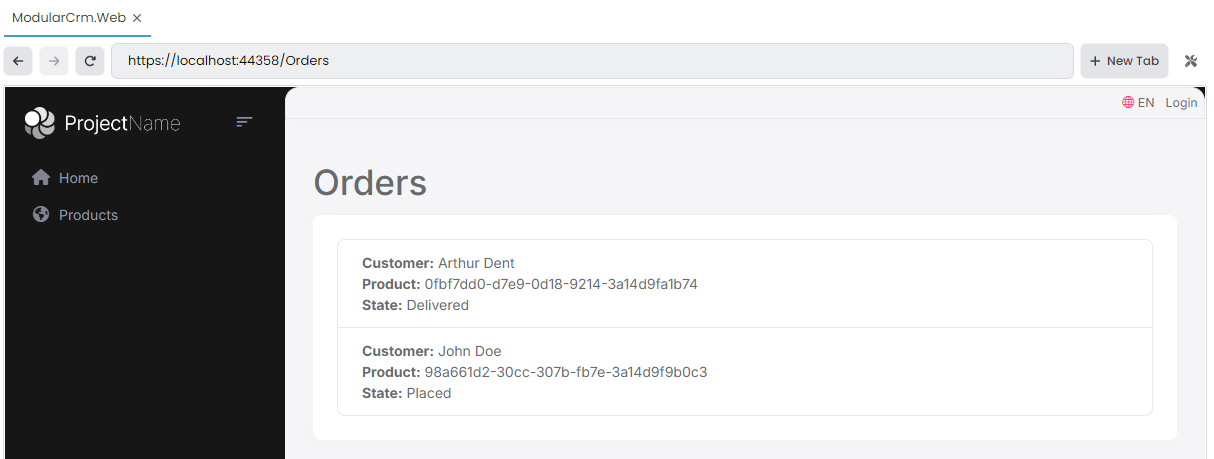
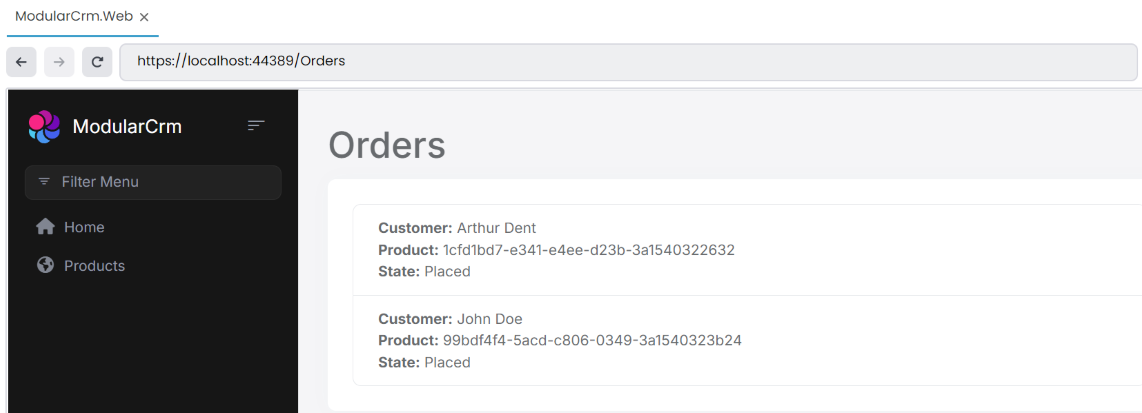
Refactor image file name in tutorial documentation, update package references, and implement OrderAppService

Changed region(s): [[0.0, 0.0291, 0.6743, 1.0], [0.8888, 0.0872, 1.0, 0.1453], [0.9194, 0.1743, 1.0, 0.2324]]

diff --git a/docs/en/tutorials/modular-crm/part-05.md b/docs/en/tutorials/modular-crm/part-05.md
@@ -297,6 +297,7 @@ Create a `OrderDto` class under the `ModularCrm.Ordering.Contracts` project:
 
 ````csharp
 using System;
+using ModularCrm.Ordering.Contracts.Enums;
 
 namespace ModularCrm.Ordering.Contracts.Services;
 
@@ -305,6 +306,7 @@ public class OrderDto
     public Guid Id { get; set; }
     public string CustomerName { get; set; }
     public Guid ProductId { get; set; }
+    public OrderState State { get; set; }
 }
 ````
 
@@ -407,9 +409,43 @@ public class OrderAppService : ApplicationService, IOrderAppService
 }
 ````
 
-## Creating the User Interface
+Open the `ModularCrmWebModule` class in the main application's solution (the `ModularCrm` solution), find the `ConfigureAutoApiControllers` method and add the following lines inside that method:
 
-Since this is a non-layered module, we can use entities and repositories directly on the user interface. If you think that is not a good practice, then use the layered module template as we've already done for the *Products* module. But for the Ordering module, we will keep it very simple for this tutorial to show it is also possible.
+````csharp
+private void ConfigureAutoApiControllers()
+{
+    Configure<AbpAspNetCoreMvcOptions>(options =>
+    {
+        options.ConventionalControllers.Create(typeof(ModularCrmApplicationModule).Assembly);
+        options.ConventionalControllers.Create(typeof(ProductsApplicationModule).Assembly);
+
+        //ADD THE FOLLOWING LINE:
+        options.ConventionalControllers.Create(typeof(OrderingWebModule).Assembly);
+    });
+}
+````
+
+### Creating Example Orders
+
+This section will create a few example orders using the [Swagger UI](../../framework/api-development/swagger.md). Thus, we will have some sample orders to show on the UI.
+
+Now, right-click the `ModularCrm` under the `main` folder in the Solution Explorer panel and select the *Dotnet CLI* -> *Graph Build* command. This will ensure that the order module and the main application are built and ready to run.
+
+After the build process completes, open the Solution Runner panel and click the *Play* button near the solution root. Once the `ModularCrm.Web` application runs, we can right-click it and select the *Browse* command to open the user interface.
+
+Once you see the user interface of the web application, type `/swagger` at the end of the URL to open the Swagger UI. If you scroll down, you should see the `Orders` API:
+
+![abp-studio-ordering-swagger-ui-in-browser](images/abp-studio-ordering-swagger-ui-in-browser.png)
+
+Expand the `/api/app/order` API and click the *Try it out* button. Then, create a few orders by filling in the request body and clicking the *Execute* button:
+
+![abp-studio-swagger-ui-create-order-execute](images/abp-studio-swagger-ui-create-order-execute.png)
+
+If you check the database, you should see the entities created in the *Orders* table:
+
+![sql-server-orders-database-table-filled](images/sql-server-orders-database-table-filled.png)
+
+## Creating the User Interface
 
 ### Creating a `_ViewImports.cshtml` File
 
@@ -432,28 +468,26 @@ Create an `Orders` folder under the `Pages` folder and add an `Index.cshtml` Raz
 
 ````csharp
 using Microsoft.AspNetCore.Mvc.RazorPages;
-using ModularCrm.Ordering.Entities;
-using System;
 using System.Collections.Generic;
 using System.Threading.Tasks;
-using Volo.Abp.Domain.Repositories;
+using ModularCrm.Ordering.Contracts.Services;
 
 namespace ModularCrm.Ordering.Pages.Orders
 {
     public class IndexModel : PageModel
     {
-        public List<Order> Orders { get; set; }
+        public List<OrderDto> Orders { get; set; }
 
-        private readonly IRepository<Order, Guid> _orderRepository;
+        private readonly IOrderAppService _orderAppService;
 
-        public IndexModel(IRepository<Order, Guid> orderRepository)
+        public IndexModel(IOrderAppService orderAppService)
         {
-            _orderRepository = orderRepository;
+            _orderAppService = orderAppService;
         }
 
         public async Task OnGetAsync()
         {
-            Orders = await _orderRepository.GetListAsync();
+            Orders = await _orderAppService.GetListAsync();
         }
     }
 }
@@ -484,14 +518,6 @@ Here, we are injecting a repository to query `Order` entities from the database 
 ````
 
 This page shows a list of orders on the UI. We haven't created a UI to create new orders, and we will not do it to keep this tutorial simple. If you want to learn how to create advanced UIs with ABP, please follow the [Book Store tutorial](../book-store/index.md).
-
-### Creating Some Sample Data
-
-You can open the database and manually create a few order records to show on the UI:
-
-![sql-server-orders-table-content](images/sql-server-orders-table-content.png)
-
-You can get `ProductId` values from the `Products` table and [generate](https://www.guidgenerator.com/) some random GUIDs for other GUID fields.
 
 ### Building the Application
 
@@ -550,11 +576,13 @@ namespace ModularCrm.Ordering
 
 `OrderingMenuContributor` implements the `IMenuContributor` interface, which forces us to implement the `ConfigureMenuAsync` method. In that method, we can manipulate the menu items (add new menu items, remove existing menu items or change the properties of existing menu items). The `ConfigureMenuAsync` method is executed whenever the menu is rendered on the UI, so you can dynamically decide how to manipulate the menu items.
 
-After creating such a class, we should configure the `AbpNavigationOptions` to add that contributor. Open the `OrderingWebModule` class in the `ModularCrm.Ordering` project and add the following configuration code into the `ConfigureServices` method (if there is no `ConfigureServices` method, first create it as shown below):
+After creating such a class, we should configure the `AbpNavigationOptions` to add that contributor. Open the `OrderingWebModule` class in the `ModularCrm.Ordering` project and add the following configuration code into the `ConfigureServices` method:
 
 ````csharp
 public override void ConfigureServices(ServiceConfigurationContext context)
 {
+    //... other configurations
+
     Configure<AbpNavigationOptions>(options =>
     {
         options.MenuContributors.Add(new OrderingMenuContributor());
